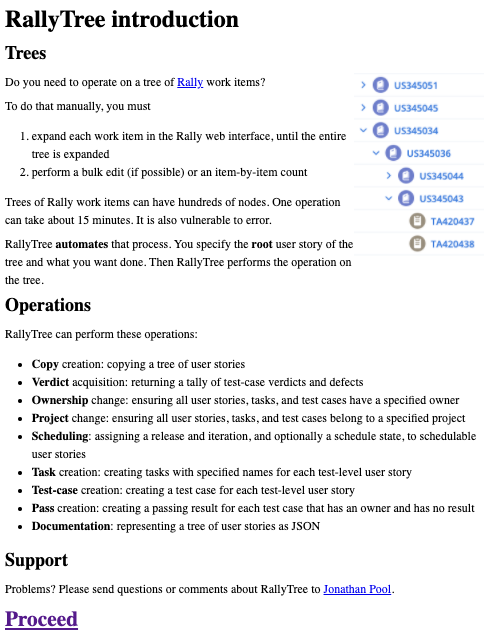
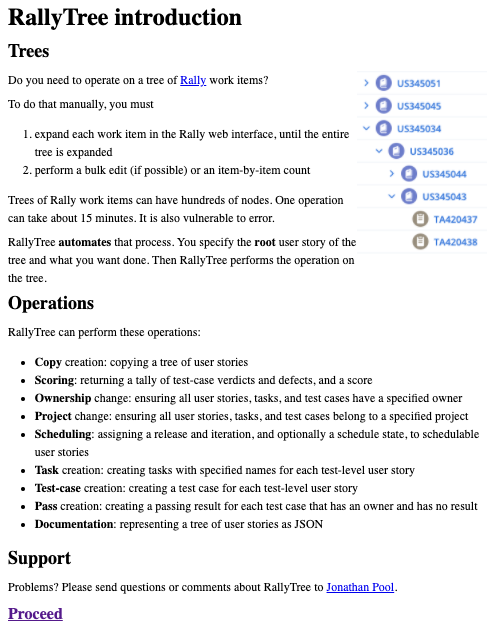
Updated documentation

diff --git a/index.js b/index.js
@@ -58,6 +58,8 @@ let rootRef = '';
 let scheduleIterationRef = '';
 let scheduleReleaseRef = '';
 let scheduleState;
+let scorePriorities = ['None', 'Useful', 'Important', 'Critical'];
+let scoreRisks = ['None', 'Low', 'Medium', 'High'];
 let scoreWeights = {
   risk: {},
   priority: {}
@@ -112,6 +114,8 @@ const reinit = () => {
   scheduleIterationRef = '';
   scheduleReleaseRef = '';
   scheduleState = '';
+  scorePriorities = ['None', 'Useful', 'Important', 'Critical'];
+  scoreRisks = ['None', 'Low', 'Medium', 'High'];
   scoreWeights = {
     risk: {},
     priority: {}
@@ -578,7 +582,7 @@ const scoreTree = storyRef => {
                 const verdict = testCase.lastVerdict;
                 const riskWeight = scoreWeights.risk[testCase.risk];
                 const priorityWeight = scoreWeights.priority[testCase.priority];
-                const weight = riskWeight + priorityWeight;
+                const weight = Number.parseInt(riskWeight) + Number.parseInt(priorityWeight);
                 const defectsCollection = testCase.defects;
                 let newNumerator;
                 if (verdict === 'Pass') {
@@ -1666,9 +1670,22 @@ const serveScoreReport = () => {
       .then(
         jsContent => {
           const newJSContent = reportScriptPrep(jsContent, '/scoretally', [
-            'total', 'passes', 'fails', 'defects', 'major', 'minor', 'score', 'error'
+            'total',
+            'passes',
+            'fails',
+            'defects',
+            'major',
+            'minor',
+            'score',
+            'numerator',
+            'denominator',
+            'error'
           ]);
-          const newContent = reportPrep(htmlContent, newJSContent);
+          const newContent = reportPrep(htmlContent, newJSContent)
+          .replace('__riskMin__', scoreWeights.risk[scoreRisks[0]])
+          .replace('__priorityMin__', scoreWeights.priority[scorePriorities[0]])
+          .replace('__riskMax__', scoreWeights.risk[scoreRisks.slice(-1)])
+          .replace('__priorityMax__', scoreWeights.priority[scorePriorities.slice(-1)]);
           servePage(newContent, true);
         },
         error => err(error, 'reading report script')
@@ -2110,10 +2127,12 @@ const requestHandler = (request, res) => {
                       };
                       // Sets the score weights.
                       const setScoreWeights = (key, values, min, max) => {
+                        const minNumber = Number.parseInt(min, 10);
                         scoreWeights[key] = {};
                         for (let i = 0; i < values.length; i++) {
                           scoreWeights[key][values[i]]
-                            = min + i * (max - min) / (values.length - 1);
+                            = minNumber
+                            + i * (Number.parseInt(max, 10) - minNumber) / (values.length - 1);
                         }
                       };
                       // Validate the weights.
@@ -2127,13 +2146,13 @@ const requestHandler = (request, res) => {
                         // Set the score weights.
                         setScoreWeights(
                           'risk',
-                          ['None', 'Low', 'Medium', 'High'],
+                          scoreRisks,
                           bodyObject.scoreRiskMin,
                           bodyObject.scoreRiskMax
                         );
                         setScoreWeights(
                           'priority',
-                          ['None', 'Useful', 'Important', 'Critical'],
+                          scorePriorities,
                           bodyObject.scorePriorityMin,
                           bodyObject.scorePriorityMax
                         );

diff --git a/scoreReport.html b/scoreReport.html
@@ -2,7 +2,7 @@
 <html lang="en-US">
   <head>
     <meta charset="utf-8">
-    <title>Verdict report | RallyTree</title>
+    <title>Score report | RallyTree</title>
     <meta name="description" content="Automation of Rally tree management">
     <meta name="viewport" content="width=device-width, initial-scale=1">
     <link rel="stylesheet" href="style.css">
@@ -10,18 +10,15 @@
   </head>
   <body class="ack">
     <main>
-      <h1>RallyTree verdict report</h1>
+      <h1>RallyTree score report</h1>
       <section class="flex">
         <section class="even">
           <h2>Results</h2>
           <p>Test cases run: <span id="total" role="status">0</span></p>
           <p class="more">Passed on last run: <span id="passes" role="status">0</span></p>
           <p class="more">Failed on last run: <span id="fails" role="status">0</span></p>
-          <p class="more">Total defects: <span id="defects" role="status">0</span></p>
-          <p class="more">Major defects: <span id="major" role="status">0</span></p>
-          <p class="more">Minor defects: <span id="minor" role="status">0</span></p>
           <p class="more">Score:
-            <span id="score" role="status">0%</span>
+            <span id="score" role="status">0</span>%
             (<span
               id="numerator"
               role="status"
@@ -30,7 +27,15 @@
               role="status"
             >0</span>)
           </p>
+          <p class="more">Total defects: <span id="defects" role="status">0</span></p>
+          <p class="more">Major defects: <span id="major" role="status">0</span></p>
+          <p class="more">Minor defects: <span id="minor" role="status">0</span></p>
           <div id="error" class="error" role="alert"></div>
+        </section>
+        <section class="odd">
+          <h2>Weights</h2>
+          <p>You weighed risks from __riskMin__ to __riskMax__.</p>
+          <p>You weighed priorities from __priorityMin__ to __priorityMax__.</p>
         </section>
         <section class="odd">
           <h2>Tree</h2>

diff --git a/report.js b/report.js
@@ -13,6 +13,7 @@ let __events__;
 const handleMessage = (event, type) => {
   const data = event.data;
   if (data) {
+    console.log(`${type} was ${document.getElementById(type).innerHTML}, will be ${data}`);
     document.getElementById(type).innerHTML = data;
     lastEventTime = Date.now();
   }
